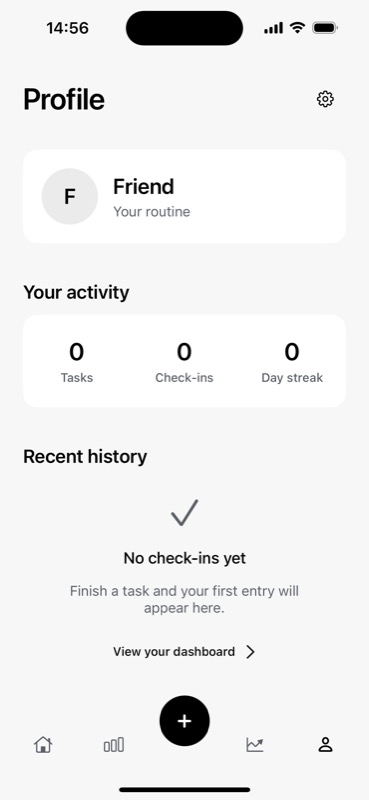
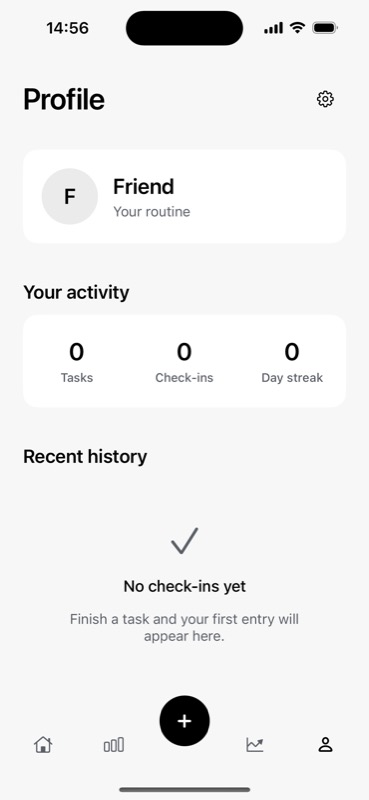
fix(mobile): remove empty-state dashboard links

Changed region(s): [[0.1789, 0.625, 0.8049, 0.8438], [0.3279, 0.9688, 0.6856, 1.0], [0.6558, 0.8125, 0.6856, 0.8438]]

diff --git a/apps/mobile/RoutineAppUITests/EmptyStateUITests.swift b/apps/mobile/RoutineAppUITests/EmptyStateUITests.swift
@@ -2,7 +2,7 @@ import XCTest
 
 final class EmptyStateUITests: XCTestCase {
     @MainActor
-    func testEmptyTabsStayCenteredAndDashboardLinkWorks() throws {
+    func testEmptyTabsStayCenteredWithoutDashboardLinks() throws {
         let app = XCUIApplication()
         app.launchArguments = ["-screen", "main", "-empty-data"]
         app.launch()
@@ -21,13 +21,15 @@ final class EmptyStateUITests: XCTestCase {
         let insightsTitle = app.staticTexts["Your first check-in starts here"]
         XCTAssertTrue(insightsTitle.waitForExistence(timeout: 2))
         XCTAssertEqual(insightsTitle.frame.midX, app.frame.midX, accuracy: 3)
-        app.buttons["View your dashboard"].tap()
+        XCTAssertFalse(app.buttons["View your dashboard"].exists)
+        app.buttons["Home"].tap()
         XCTAssertTrue(homeTitle.waitForExistence(timeout: 2))
 
         app.buttons["Profile"].tap()
         let historyTitle = app.staticTexts["No check-ins yet"]
         XCTAssertTrue(historyTitle.waitForExistence(timeout: 2))
         XCTAssertEqual(historyTitle.frame.midX, app.frame.midX, accuracy: 3)
+        XCTAssertFalse(app.buttons["View your dashboard"].exists)
         app.buttons["Settings"].tap()
         XCTAssertTrue(app.buttons["Done"].waitForExistence(timeout: 2))
         app.buttons["Done"].tap()

diff --git a/apps/mobile/RoutineApp/Components/RoutinePageChrome.swift b/apps/mobile/RoutineApp/Components/RoutinePageChrome.swift
@@ -47,8 +47,6 @@ struct RoutineEmptyState: View {
     let icon: RoutineIconName
     let title: String
     let message: String
-    var actionTitle: String? = nil
-    var action: (() -> Void)? = nil
 
     var body: some View {
         VStack(spacing: RoutineSpacing.md) {
@@ -64,22 +62,6 @@ struct RoutineEmptyState: View {
                 .font(RoutineTypography.secondary)
                 .foregroundStyle(RoutineColors.secondaryText)
                 .fixedSize(horizontal: false, vertical: true)
-
-            if let actionTitle, let action {
-                Button(action: action) {
-                    HStack(spacing: RoutineSpacing.xs) {
-                        Text(actionTitle)
-                            .font(RoutineTypography.small)
-                        RoutineIcon(.caretRight)
-                            .frame(width: 14, height: 14)
-                            .accessibilityHidden(true)
-                    }
-                    .foregroundStyle(RoutineColors.primaryText)
-                    .frame(minHeight: 44)
-                    .contentShape(Rectangle())
-                }
-                .buttonStyle(.plain)
-            }
         }
         .multilineTextAlignment(.center)
         .frame(maxWidth: 320)

diff --git a/apps/mobile/RoutineApp/Features/Profile/ProfileView.swift b/apps/mobile/RoutineApp/Features/Profile/ProfileView.swift
@@ -4,7 +4,6 @@ struct ProfileView: View {
     let userName: String
     let tasks: [RoutineTask]
     let checkIns: [RoutineCheckIn]
-    let onOpenDashboard: () -> Void
 
     @State private var isSettingsPresented = false
     @State private var settingsHapticTrigger = 0
@@ -12,13 +11,11 @@ struct ProfileView: View {
     init(
         userName: String = "",
         tasks: [RoutineTask] = [],
-        checkIns: [RoutineCheckIn] = [],
-        onOpenDashboard: @escaping () -> Void = {}
+        checkIns: [RoutineCheckIn] = []
     ) {
         self.userName = userName
         self.tasks = tasks
         self.checkIns = checkIns
-        self.onOpenDashboard = onOpenDashboard
     }
 
     var body: some View {
@@ -116,9 +113,7 @@ struct ProfileView: View {
                 RoutineEmptyState(
                     icon: .check,
                     title: "No check-ins yet",
-                    message: "Finish a task and your first entry will appear here.",
-                    actionTitle: "View your dashboard",
-                    action: onOpenDashboard
+                    message: "Finish a task and your first entry will appear here."
                 )
                 .frame(minHeight: 220)
             } else {

diff --git a/apps/mobile/RoutineApp/Features/Insights/InsightsView.swift b/apps/mobile/RoutineApp/Features/Insights/InsightsView.swift
@@ -16,13 +16,11 @@ private struct InsightPoint: Identifiable {
 
 struct InsightsView: View {
     let checkIns: [RoutineCheckIn]
-    let onOpenDashboard: () -> Void
     @State private var selectedRange: InsightRange = .week
     @State private var rangeHapticTrigger = 0
 
-    init(checkIns: [RoutineCheckIn] = [], onOpenDashboard: @escaping () -> Void = {}) {
+    init(checkIns: [RoutineCheckIn] = []) {
         self.checkIns = checkIns
-        self.onOpenDashboard = onOpenDashboard
     }
 
     var body: some View {
@@ -36,9 +34,7 @@ struct InsightsView: View {
                 RoutineEmptyState(
                     icon: .chartLineUp,
                     title: "Your first check-in starts here",
-                    message: "Complete a task to see your activity and consistency here.",
-                    actionTitle: "View your dashboard",
-                    action: onOpenDashboard
+                    message: "Complete a task to see your activity and consistency here."
                 )
                 .frame(maxWidth: .infinity, maxHeight: .infinity)
             } else {

diff --git a/apps/mobile/RoutineApp/Features/Dashboard/MainAppView.swift b/apps/mobile/RoutineApp/Features/Dashboard/MainAppView.swift
@@ -43,11 +43,10 @@ struct MainAppView: View {
                 ProfileView(
                     userName: userName,
                     tasks: tasks,
-                    checkIns: checkIns,
-                    onOpenDashboard: { selectedTab = .home }
+                    checkIns: checkIns
                 )
             case .insights:
-                InsightsView(checkIns: checkIns, onOpenDashboard: { selectedTab = .home })
+                InsightsView(checkIns: checkIns)
             }
         }
         .id(selectedTab)

diff --git a/docs/visual/mobile-cohesion/README.md b/docs/visual/mobile-cohesion/README.md
@@ -4,7 +4,7 @@ Captured on iPhone 16, iOS 18.6, using the running native app and computer-use n
 
 ## Before and after
 
-Each comparison places the pre-pass screenshot on the left and the final screenshot on the right. The dashboard empty state supplies the shared structure: a 34-point muted icon in a 44-point frame, a centered 17-point medium title, 15-point supporting text, and 16-point spacing. Optional dashboard actions use a compact link with a 44-point touch target.
+Each comparison places the pre-pass screenshot on the left and the final screenshot on the right. The dashboard empty state supplies the shared structure: a 34-point muted icon in a 44-point frame, a centered 17-point medium title, 15-point supporting text, and 16-point spacing. Empty states have no dashboard link; navigation remains in the tab bar.
 
 - [Dashboard](home-comparison.png): shared component retains the dashboard reference.
 - [Habits](habits-comparison.png): matches dashboard spacing and header height.
@@ -15,8 +15,8 @@ Each comparison places the pre-pass screenshot on the left and the final screens
 
 ## Runtime checks
 
-Computer use verified tab navigation, both dashboard links, opening and dismissing Settings, initial and unmatched search results, adding a task, and completing it to reveal the Insights chart. Week/Month switching was exercised with demo activity. All four populated tabs were inspected and captured in `after/*-populated.jpg`. The included trial/paywall edits are captured in `after/trial.jpg` and `after/paywall.jpg`.
+Computer use verified tab navigation, opening and dismissing Settings, initial and unmatched search results, adding a task, and completing it to reveal the Insights chart. Week/Month switching was exercised with demo activity. All four populated tabs were inspected and captured in `after/*-populated.jpg`. The included trial/paywall edits are captured in `after/trial.jpg` and `after/paywall.jpg`.
 
 Use `-screen main -empty-data` for an empty temporary in-memory store. Use `-screen main -demo-data -demo-name Alex` for populated sample activity. Neither mode writes task/check-in fixtures to the persistent store.
 
-Validation: workspace build; eight API tests; `scripts/verify.sh` (29 Swift tests plus compilation of both test targets); two focused `EmptyStateUITests`; quality budgets; and `git diff --check`. The final small copy/icon accessibility adjustments were rebuilt and inspected afterward. Physical-device signing and purchase/trial eligibility were not exercised.
+Validation: workspace build; eight API tests; `scripts/verify.sh` (29 Swift tests plus compilation of both test targets); two focused `EmptyStateUITests` (including absence of dashboard links); quality budgets; and `git diff --check`. The final small copy/icon accessibility adjustments were rebuilt and inspected afterward. Physical-device signing and purchase/trial eligibility were not exercised.
